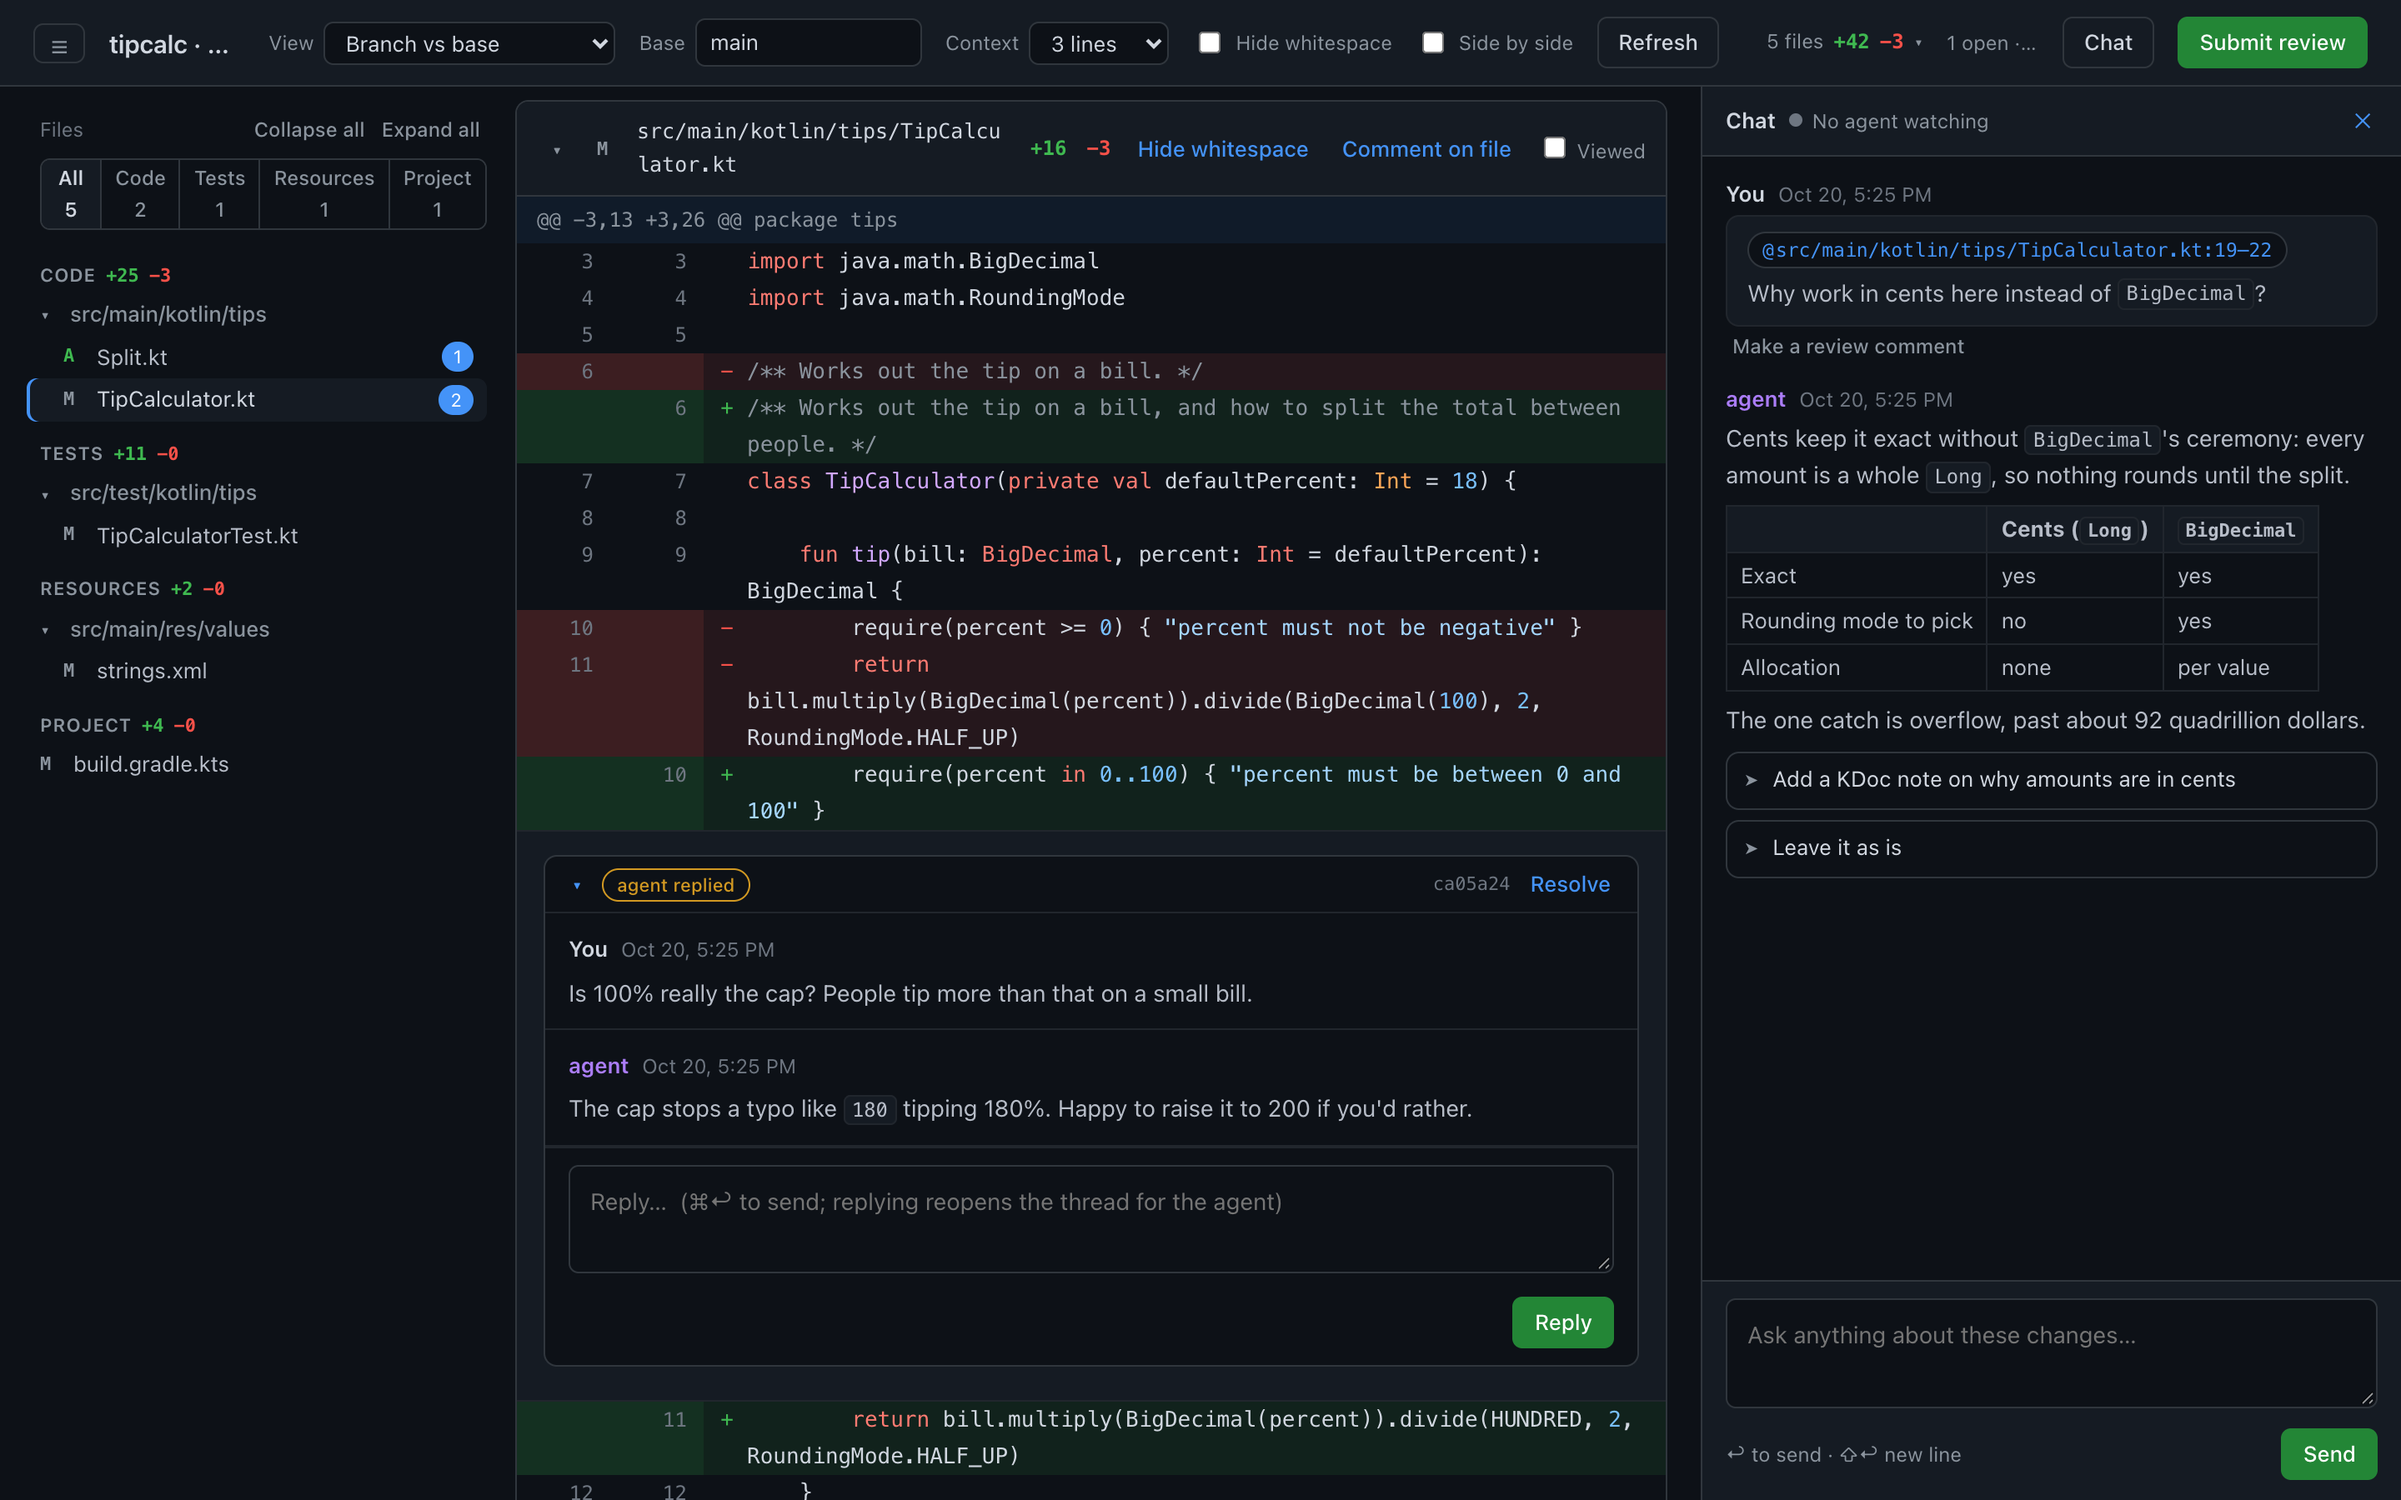
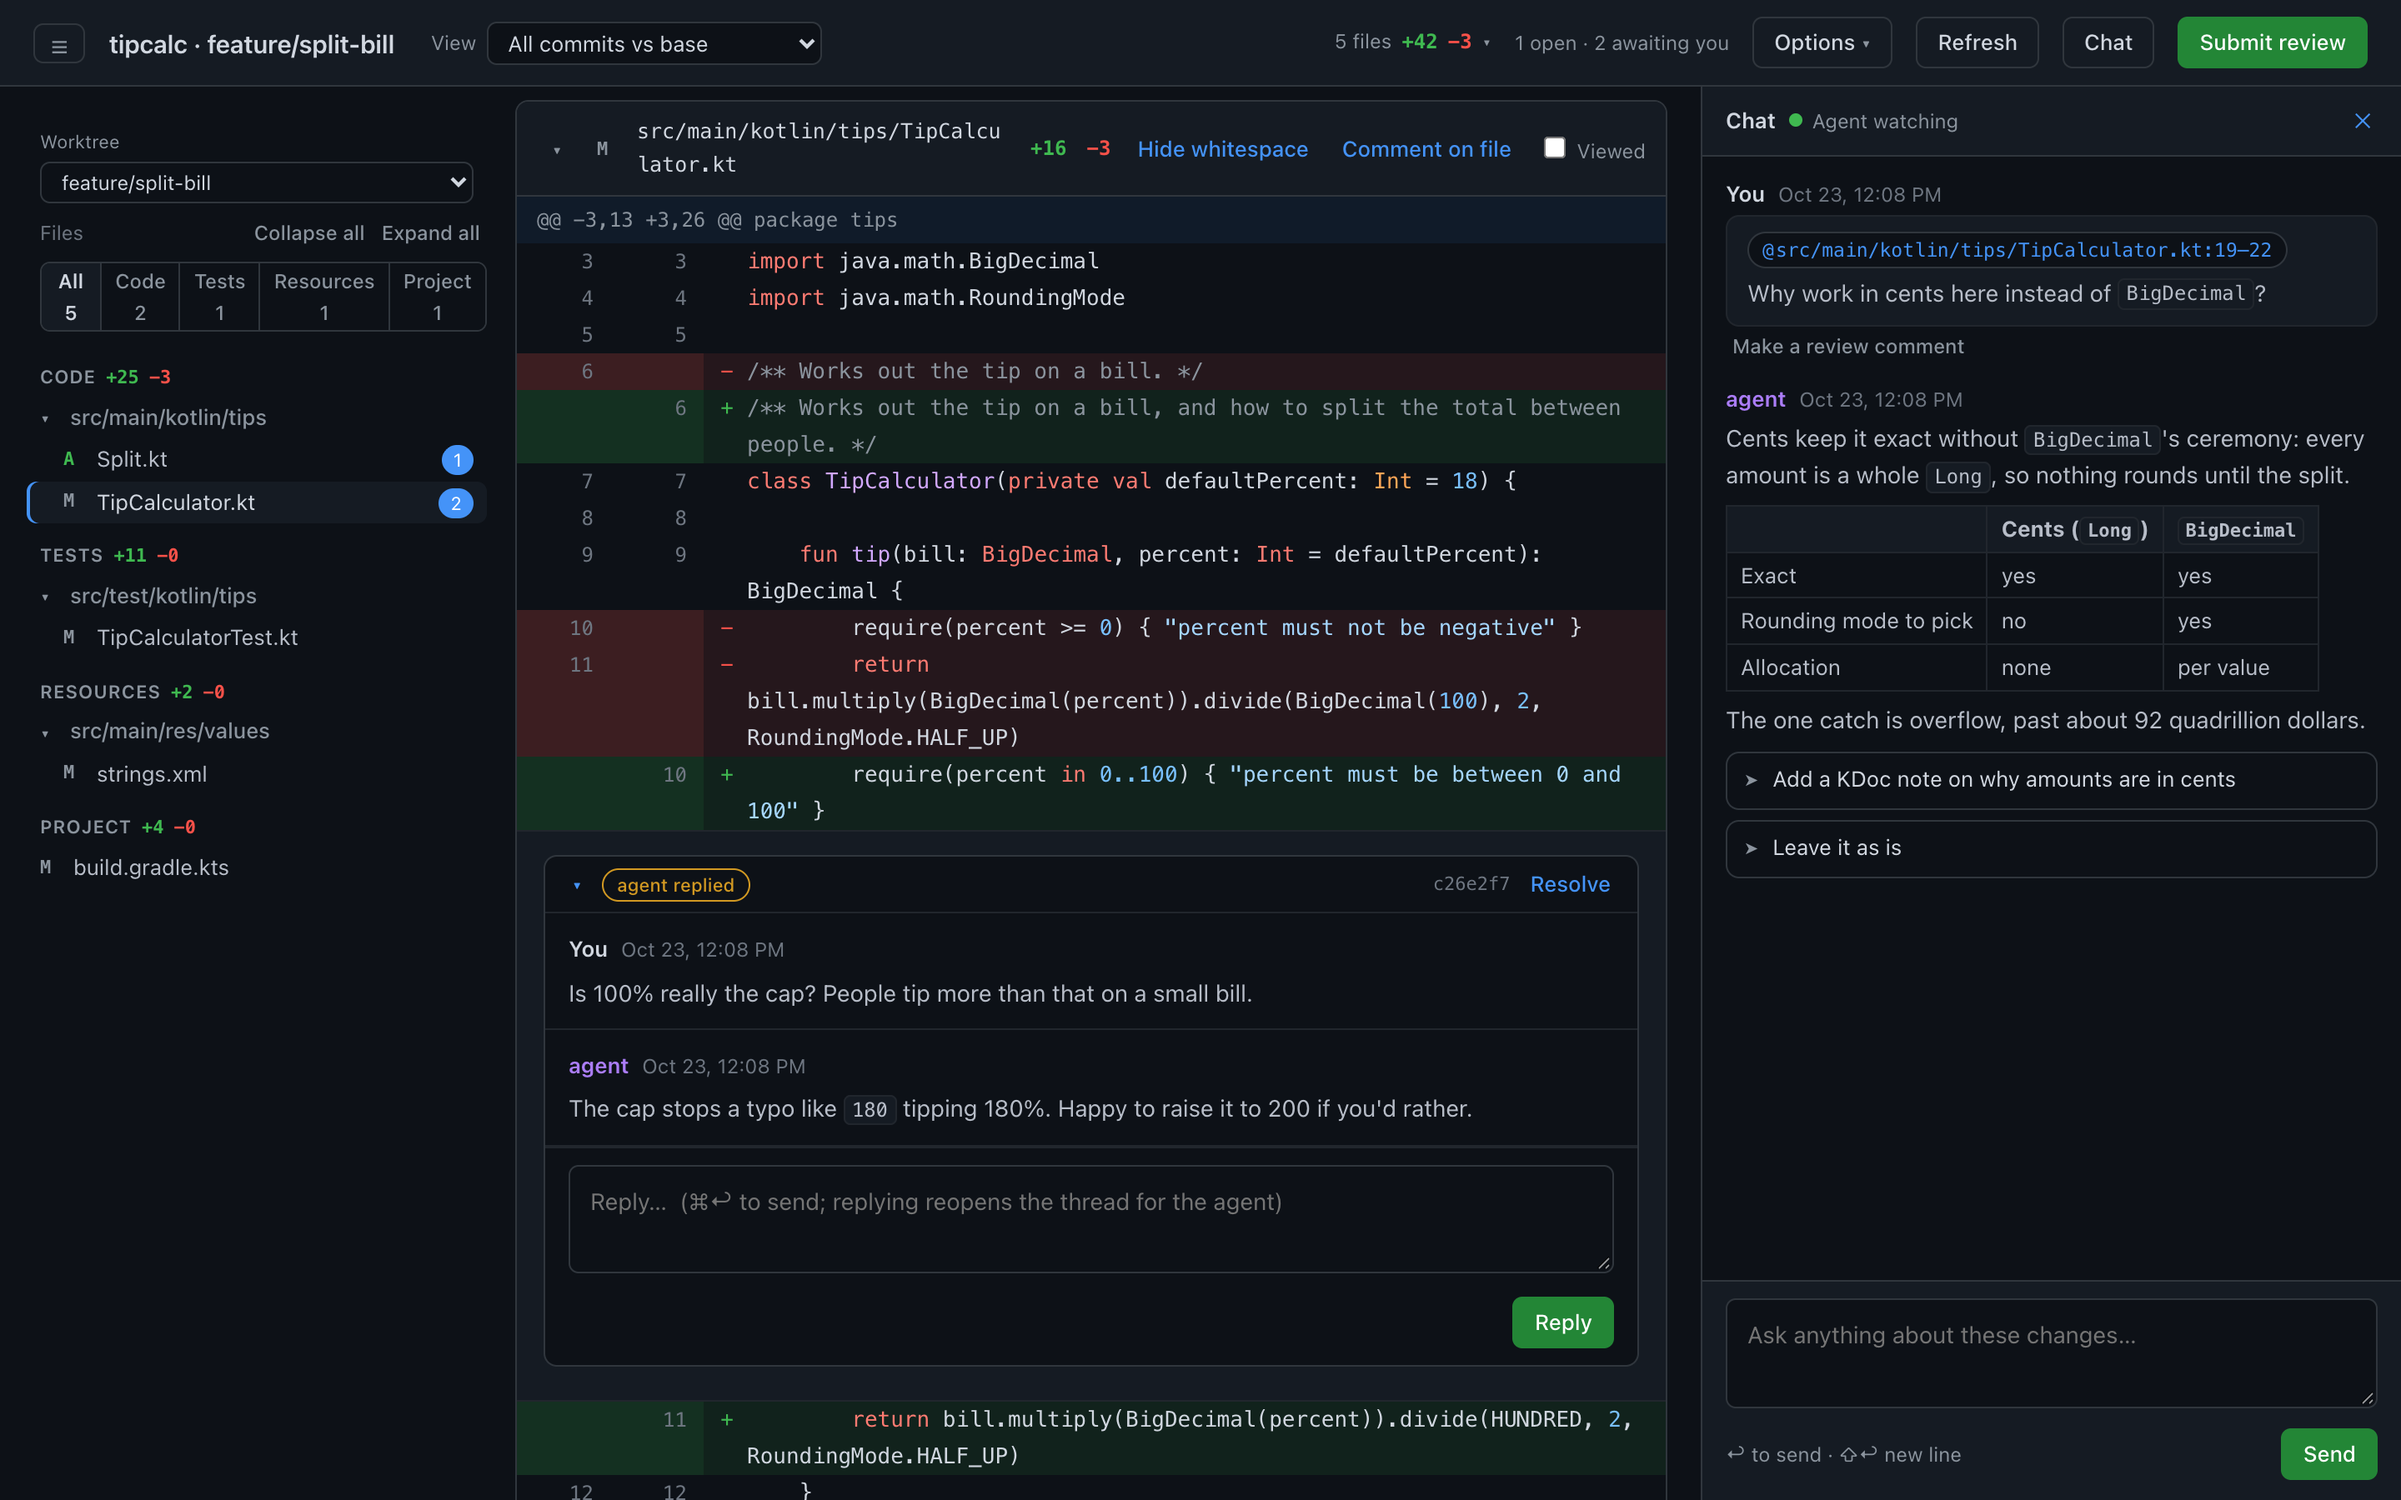
Document worktrees, chat and watching in the README, with regenerated screenshots

diff --git a/README.md b/README.md
@@ -35,9 +35,10 @@ cd /tmp/tipcalc && local-review serve --base main
 The screenshots above are that repo, with a submitted review and agent replies seeded. `node docs/screenshots.mjs` regenerates them (headless Chrome, no packages).
 
 ### Views
-- **Branch vs base**: merge-base(base, HEAD) → working tree. The final result, including uncommitted and untracked files.
+- **All commits vs base**: merge-base(base, HEAD) → working tree. The final result, including uncommitted and untracked files.
+- **One commit at a time**: each commit the branch adds to the base, oldest first, against its parent. Step with the ‹ › buttons or the `[` and `]` keys. Committed content only, so uncommitted and untracked files don't appear.
 - **Uncommitted changes**: HEAD → working tree.
-- **Since last review**: snapshot taken when you last clicked Submit → working tree. Use this to check what the agent changed.
+- **Since my last review**: snapshot taken when you last clicked Submit → working tree. Use this to check what the agent changed.
 - **Stack**: one branch of a stacked-PR series against the branch below it, matching what its PR will show. Appears when a `stack.conf` is at the repo root, and is the default when that stack includes the checked-out branch.
 
 ### Stacks
@@ -89,7 +90,7 @@ Statuses: `draft` → `open` → `replied` (agent answered) / `addressed` (agent
 ### Chat
 **Chat** (header, or `c`) opens a panel on the right for talking to the agent about the changes. It replaces general (file-less) review comments: messages go to the agent as soon as you send them, with no draft or Submit step, and nothing needs resolving. ↩ sends, ⇧↩ adds a line.
 
-![The chat panel: a question about a range of lines, answered with a table and two follow-ups to click](docs/chat.png)
+![The chat panel with Agent watching: a question about a range of lines, answered with a table and two follow-ups to click; the worktree switcher is at the top left](docs/chat.png)
 
 - **About specific lines:** start a comment on a line or range as usual and choose **Ask in chat**. The message carries an `@file:lines` reference, anchored like a comment, so it follows the code as it moves. Click the reference to jump to those lines.
 - **Follow-ups:** the agent can offer suggested replies; click one to send it.
@@ -129,7 +130,11 @@ local-review clean --all      # discard this worktree's whole review (refuses wi
 Snapshots that no worktree refers to anymore (e.g. the worktree was deleted) are pruned automatically each time `local-review` starts, once they're over an hour old. `clean` prunes them too. `state.json` and `archive.json` live in the worktree's git dir, so `git worktree remove` deletes them.
 
 ## Watching
-`local-review watch` prints one line each time a review is submitted, you reply in a thread, or you send a chat message (replies and chat post immediately, without Submit). While it runs it keeps a heartbeat file in the state directory, which is how the chat panel knows an agent is watching; when it reports a chat message it marks the chat as being worked on. `--once` exits after the first event. An agent runs `watch --once` in the background, addresses the review when it exits, then starts it again. The `address-review` skill does this by default whenever it has started a review server, so you don't have to ask.
+**Several worktrees, one server.** Run `local-review serve` in each worktree. The first starts the server (on `--port`, default 7400); the others find it on that port and attach to it, and each opens at `/w/<worktree>/`. A switcher next to the title jumps between them (the branch, with the worktree name on hover). Comments, chat and watchers stay per worktree, in each repo's git dir. The server remembers what was attached (`~/.local-review/worktrees.json`, or `$LOCAL_REVIEW_HOME`), so a restart serves them all again; `local-review detach` stops serving the current worktree (and `local-review clean`, which you run when the work is done, does it too), and `local-review worktrees` lists them. Stopping the server stops every review, though the comments are kept.
+
+![The worktree switcher at the top of the file tree, listing two worktrees on one server](docs/worktrees.png)
+
+`local-review watch` prints one line each time a review is submitted, you reply in a thread, or you send a chat message (replies and chat post immediately, without Submit). While it runs it keeps a heartbeat file in the state directory, which is how the chat panel knows an agent is watching; when it reports a chat message it marks the chat as being worked on. It keeps running and prints each event once, so an agent that can stream a command's output (Claude Code's Monitor tool, which expires after at most 30 minutes and must be started again) gets one notification per event with nothing to re-arm. `--once` exits after the first event, for an agent that can only wait for a command to finish: it runs `watch --once` in the background, addresses the review when it exits, then starts it again. The `address-review` skill starts a watcher by default whenever it has started a review server, so you don't have to ask.
 
 ## Hook (optional)
 `local-review status --hook` prints a one-line reminder only when comments are open or chat messages are unanswered, and prints nothing outside a git repo. It's suitable for a Claude Code `UserPromptSubmit` hook.
